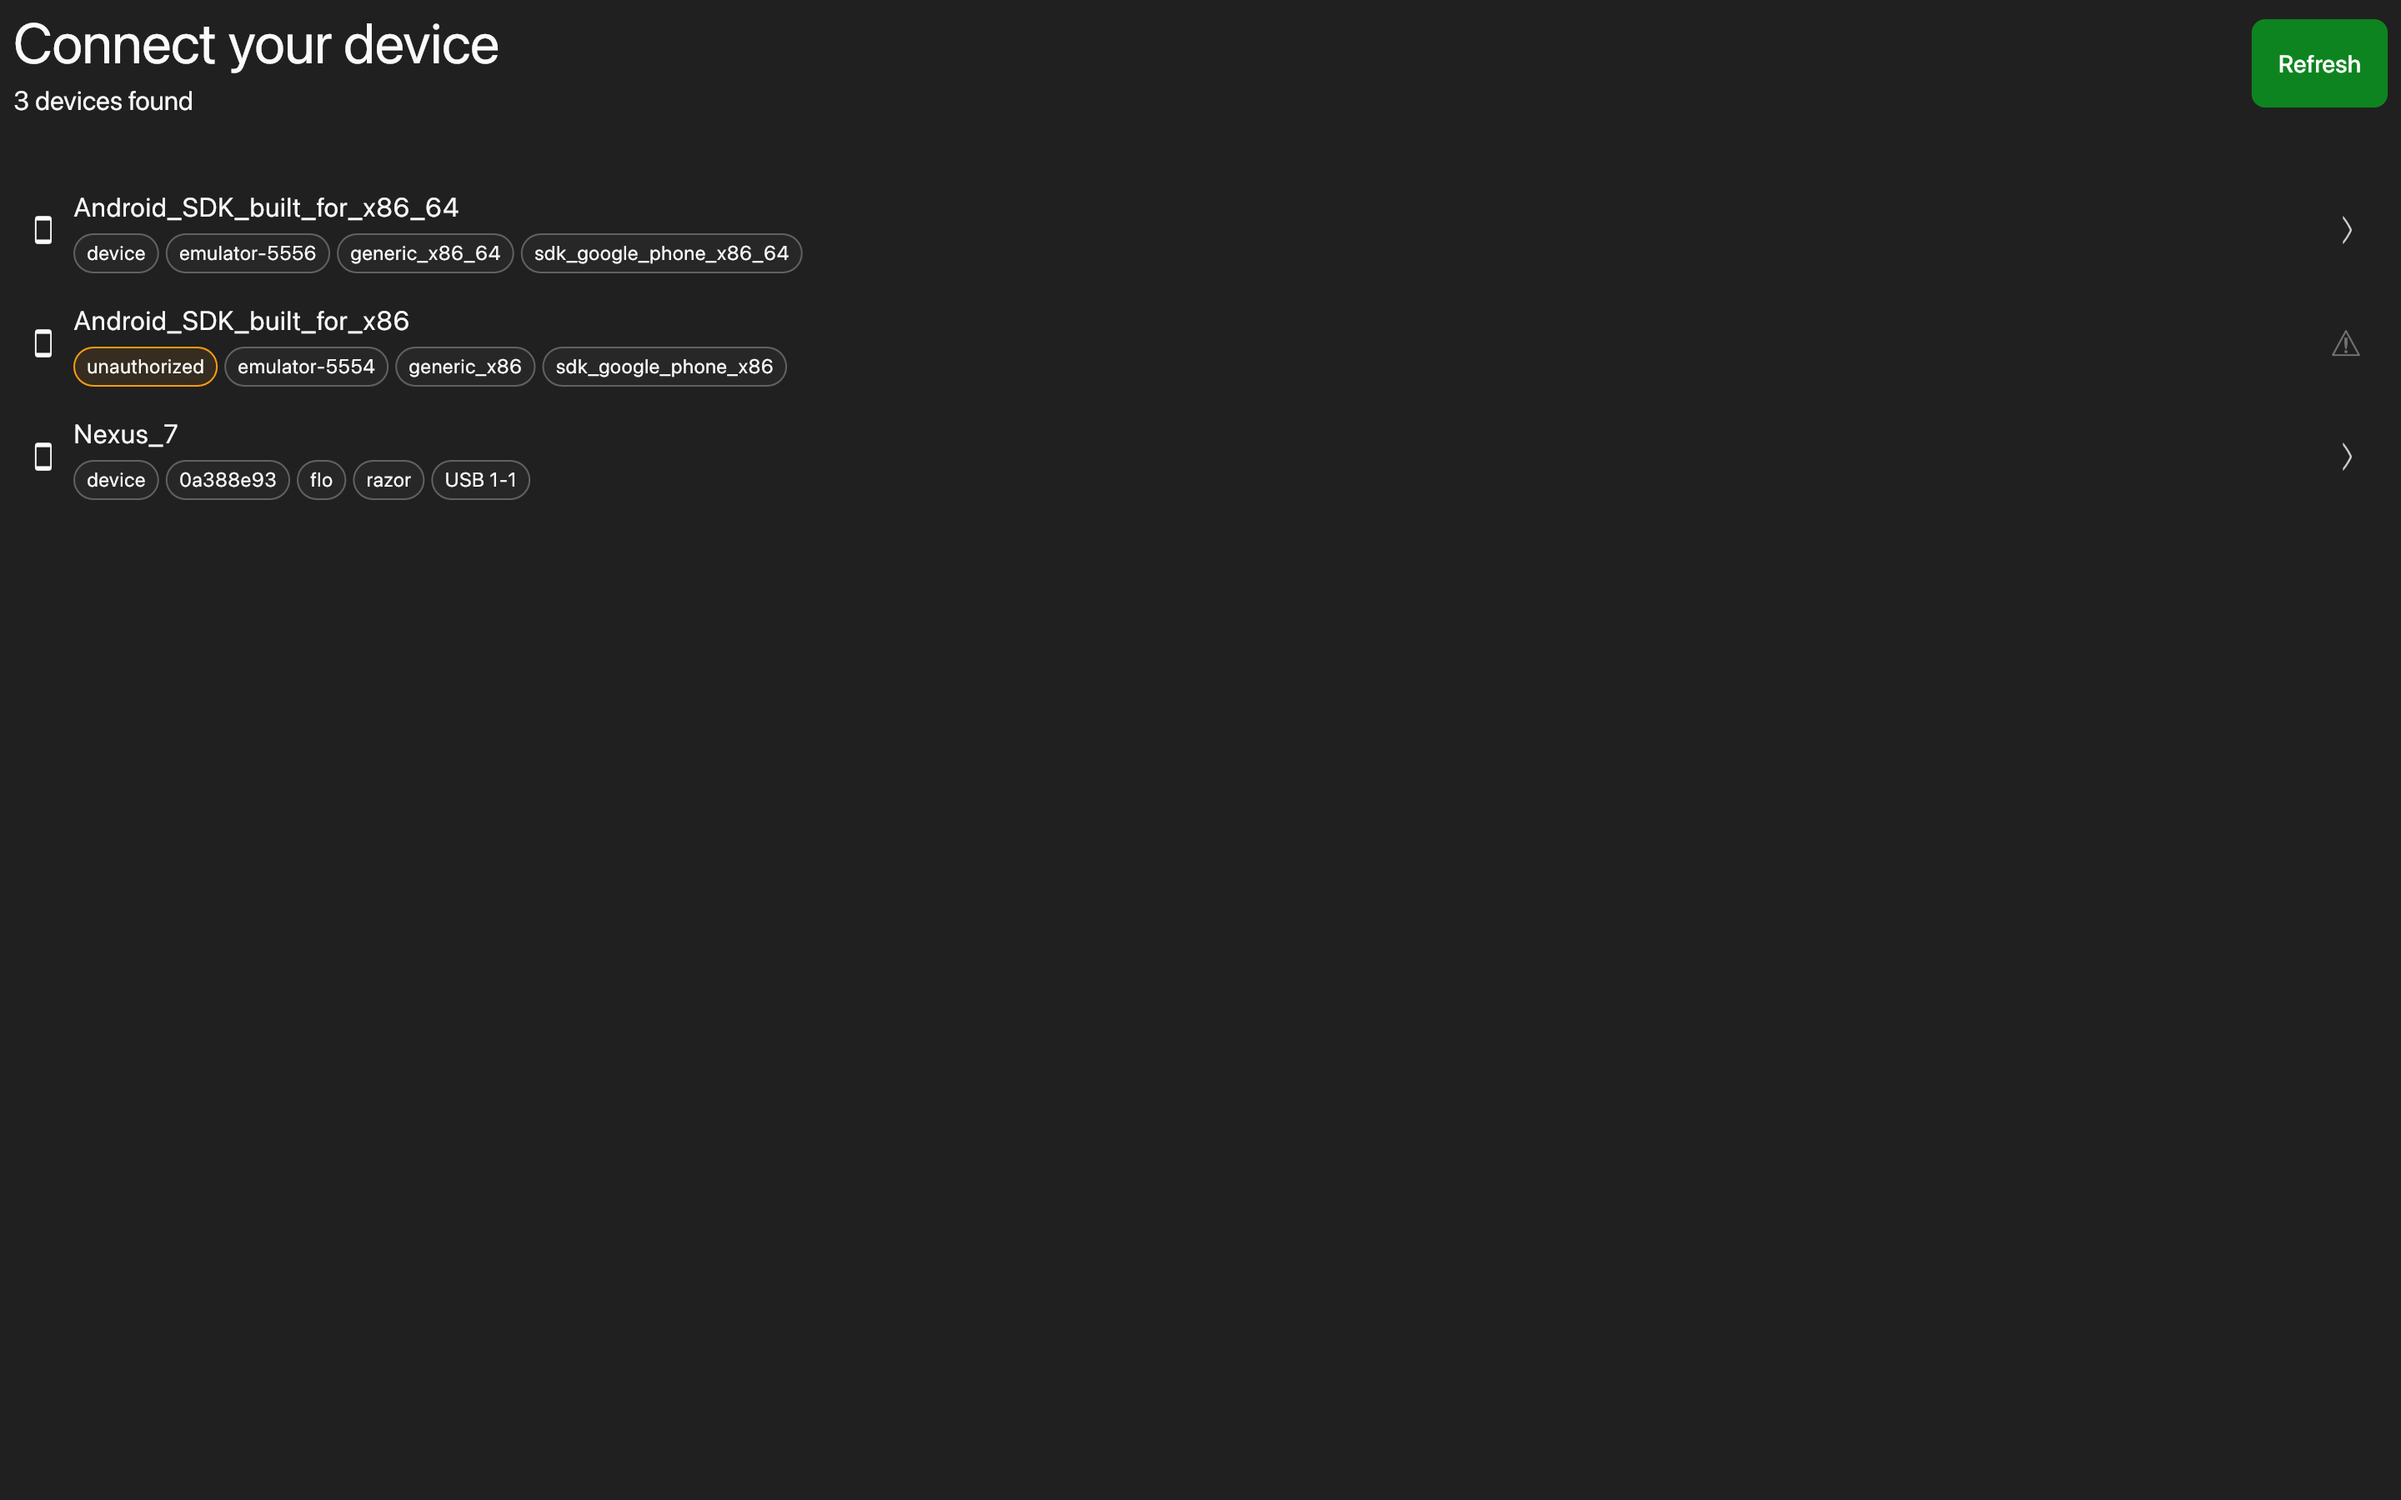
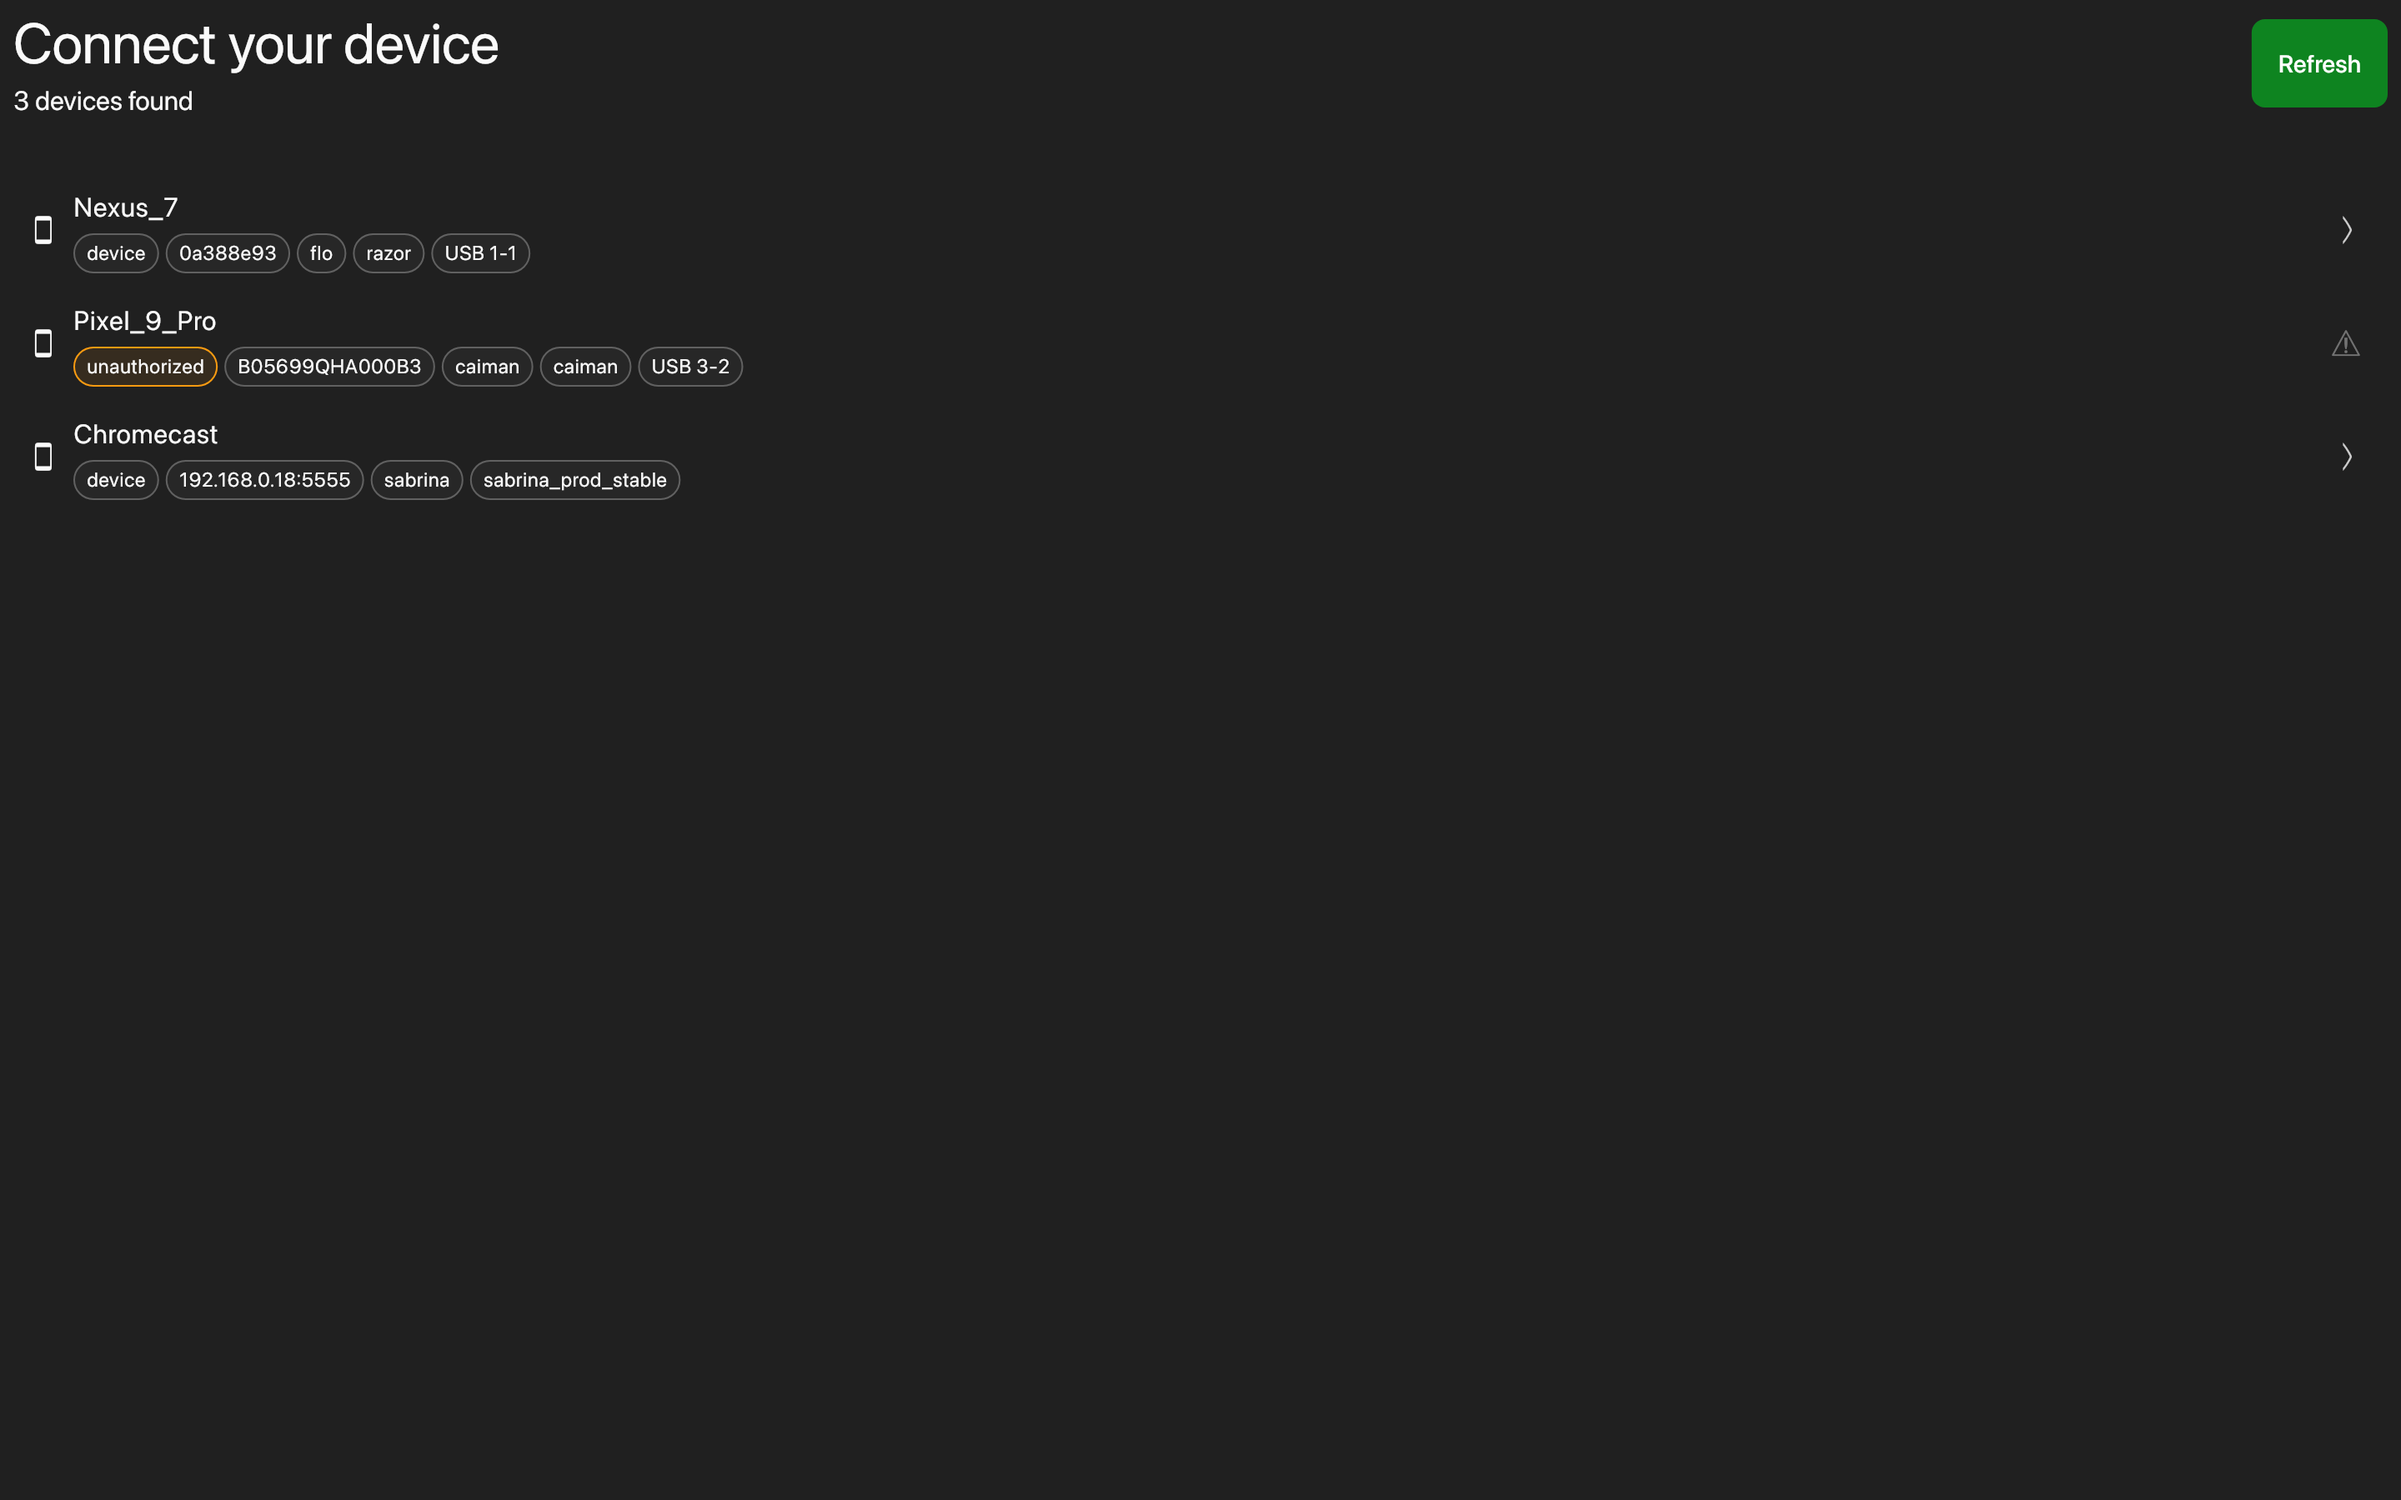
chore: remove emulators from screenshots

Changed region(s): [[0.0312, 0.1244, 0.3438, 0.2489], [0.0312, 0.28, 0.2812, 0.3422]]

diff --git a/test/adb_test.dart b/test/adb_test.dart
@@ -24,26 +24,29 @@ void main() {
         final devices = await Adb.getDevices();
         expect(devices, [
           AdbDevice(
-            'emulator-5556',
-            'device',
-            product: 'sdk_google_phone_x86_64',
-            model: 'Android_SDK_built_for_x86_64',
-            device: 'generic_x86_64',
-          ),
-          AdbDevice(
-            'emulator-5554',
-            'unauthorized',
-            product: 'sdk_google_phone_x86',
-            model: 'Android_SDK_built_for_x86',
-            device: 'generic_x86',
-          ),
-          AdbDevice(
             '0a388e93',
             'device',
             usb: '1-1',
             product: 'razor',
             model: 'Nexus_7',
             device: 'flo',
+          ),
+          AdbDevice(
+            'B05699QHA000B3',
+            'unauthorized',
+            product: 'caiman',
+            model: 'Pixel_9_Pro',
+            device: 'caiman',
+            usb: '3-2',
+            transportId: '9',
+          ),
+          AdbDevice(
+            '192.168.0.18:5555',
+            'device',
+            product: 'sabrina_prod_stable',
+            model: 'Chromecast',
+            device: 'sabrina',
+            transportId: '1',
           ),
         ]);
       });

diff --git a/lib/compute/adb.dart b/lib/compute/adb.dart
@@ -299,9 +299,9 @@ class TestAdbImpl implements AdbImpl {
 class TestAdbImplOutputs {
   var getDevices = '''
 List of devices attached
-emulator-5556 device product:sdk_google_phone_x86_64 model:Android_SDK_built_for_x86_64 device:generic_x86_64
-emulator-5554 unauthorized product:sdk_google_phone_x86 model:Android_SDK_built_for_x86 device:generic_x86
-0a388e93      device usb:1-1 product:razor model:Nexus_7 device:flo
+0a388e93           device usb:1-1 product:razor model:Nexus_7 device:flo
+B05699QHA000B3     unauthorized usb:3-2 product:caiman model:Pixel_9_Pro device:caiman transport_id:9
+192.168.0.18:5555  device product:sabrina_prod_stable model:Chromecast device:sabrina transport_id:1
 
 ''';
   var getApps = (
